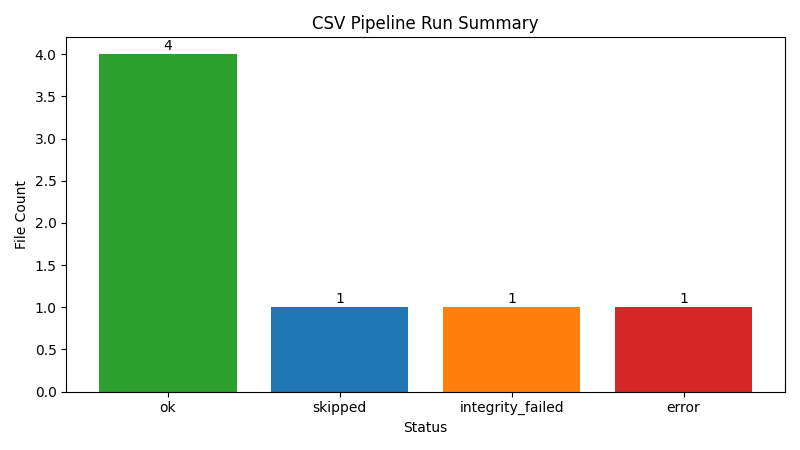
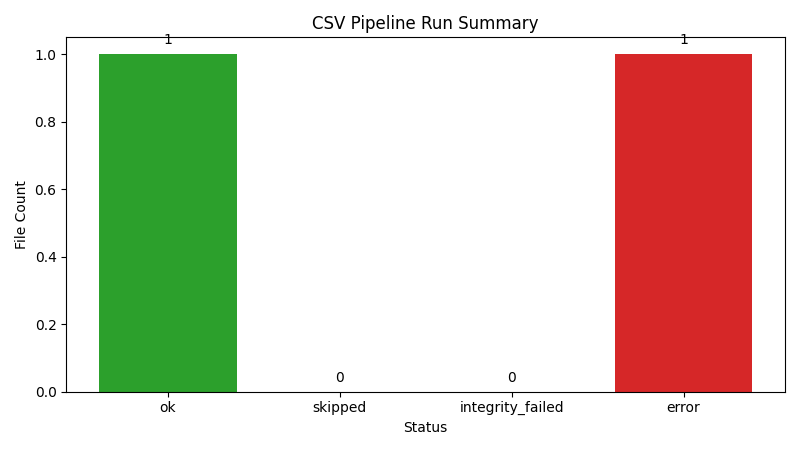
fix: update pipeline summary and improve CSV reading logic

diff --git a/src/mask_sensitive_columns.py b/src/mask_sensitive_columns.py
@@ -110,7 +110,7 @@ def _read_csv_flexible(csv_path: Path) -> pd.DataFrame:
     for encoding in encodings:
         try:
             df = pd.read_csv(csv_path, encoding=encoding, on_bad_lines="skip")
-            if len(df.columns) > 1 or not df.empty:
+            if len(df.columns) > 1 and not df.empty:
                 return df
         except Exception as exc:
             last_error = exc
@@ -120,7 +120,7 @@ def _read_csv_flexible(csv_path: Path) -> pd.DataFrame:
         for delimiter in delimiters:
             try:
                 df = pd.read_csv(csv_path, encoding=encoding, sep=delimiter, on_bad_lines="skip")
-                if len(df.columns) > 1 or not df.empty:
+                if len(df.columns) > 1 and not df.empty:
                     return df
             except Exception as exc:
                 last_error = exc
@@ -133,7 +133,7 @@ def _read_csv_flexible(csv_path: Path) -> pd.DataFrame:
                 sniffer = csv.Sniffer()
                 dialect = sniffer.sniff(sample)
                 df = pd.read_csv(csv_path, encoding=encoding, sep=dialect.delimiter, on_bad_lines="skip")
-                if len(df.columns) > 1 or not df.empty:
+                if len(df.columns) > 1 and not df.empty:
                     return df
         except Exception as exc:
             last_error = exc
